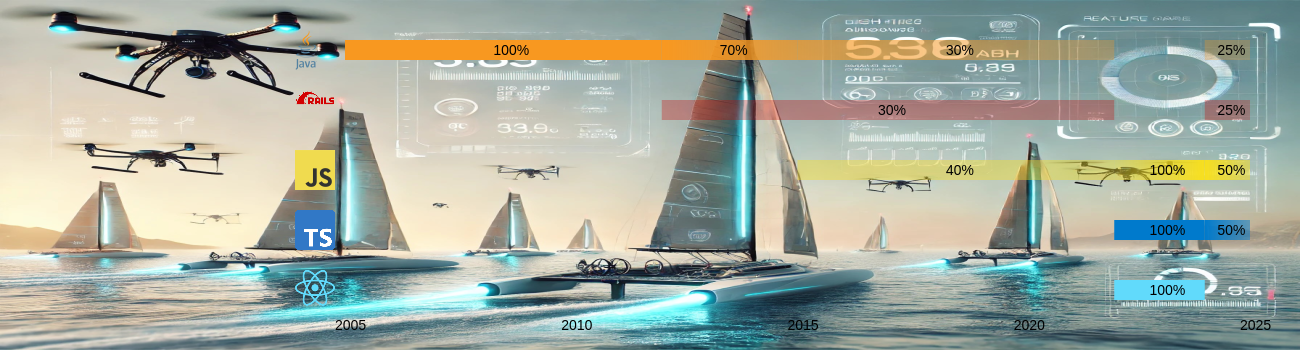
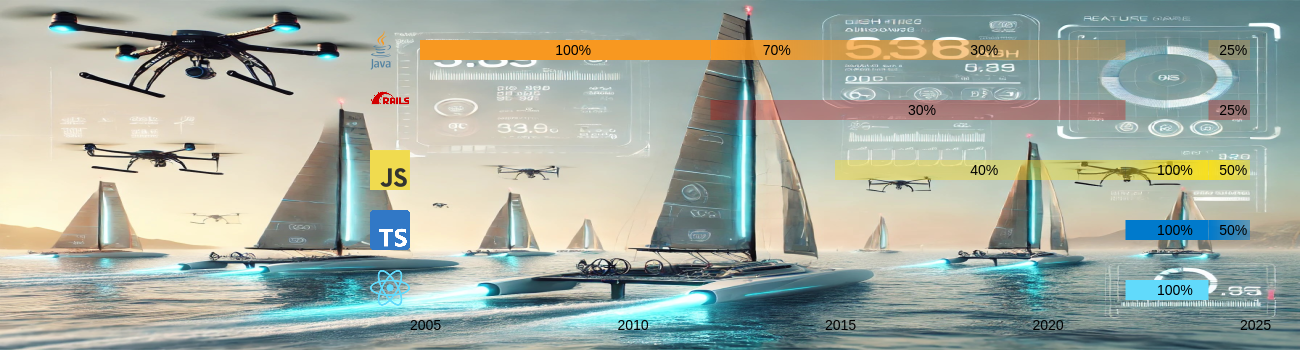
Adjusting the size

diff --git a/background.js b/background.js
@@ -3,7 +3,7 @@ const fs = require('fs');
 
 const WIDTH = 1300;
 const HEIGHT = 350;
-const LEFT_SPACE = 325;
+const LEFT_SPACE = 400;
 const MARGIN_LEFT = LEFT_SPACE + 20;
 const MARGIN_RIGHT = 50;
 const MARGIN_TOP = 40;
